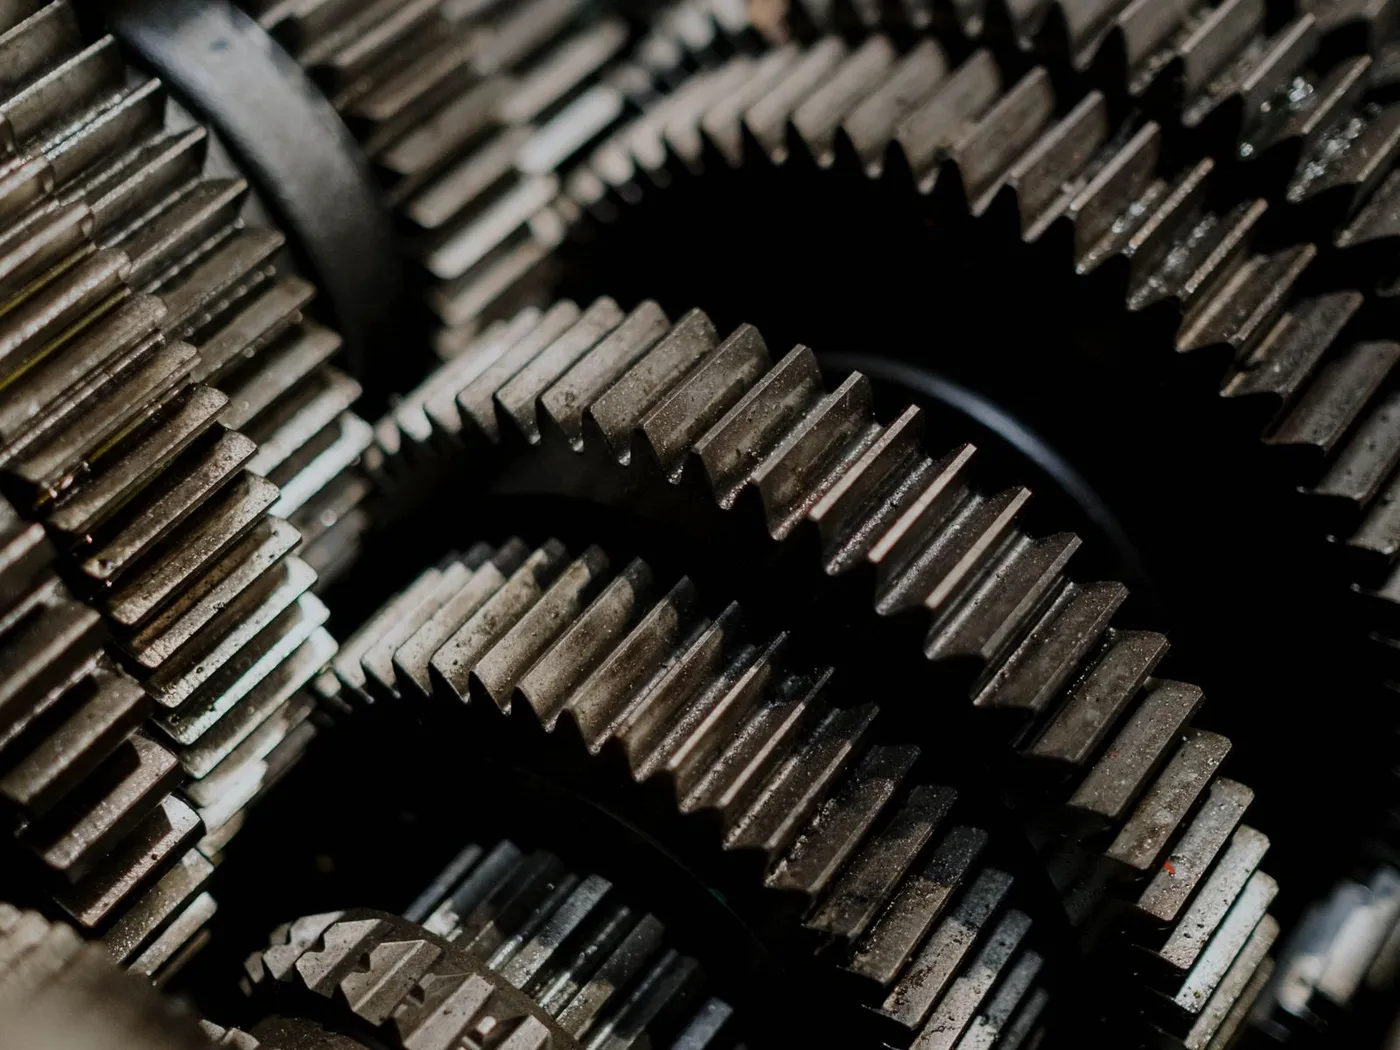
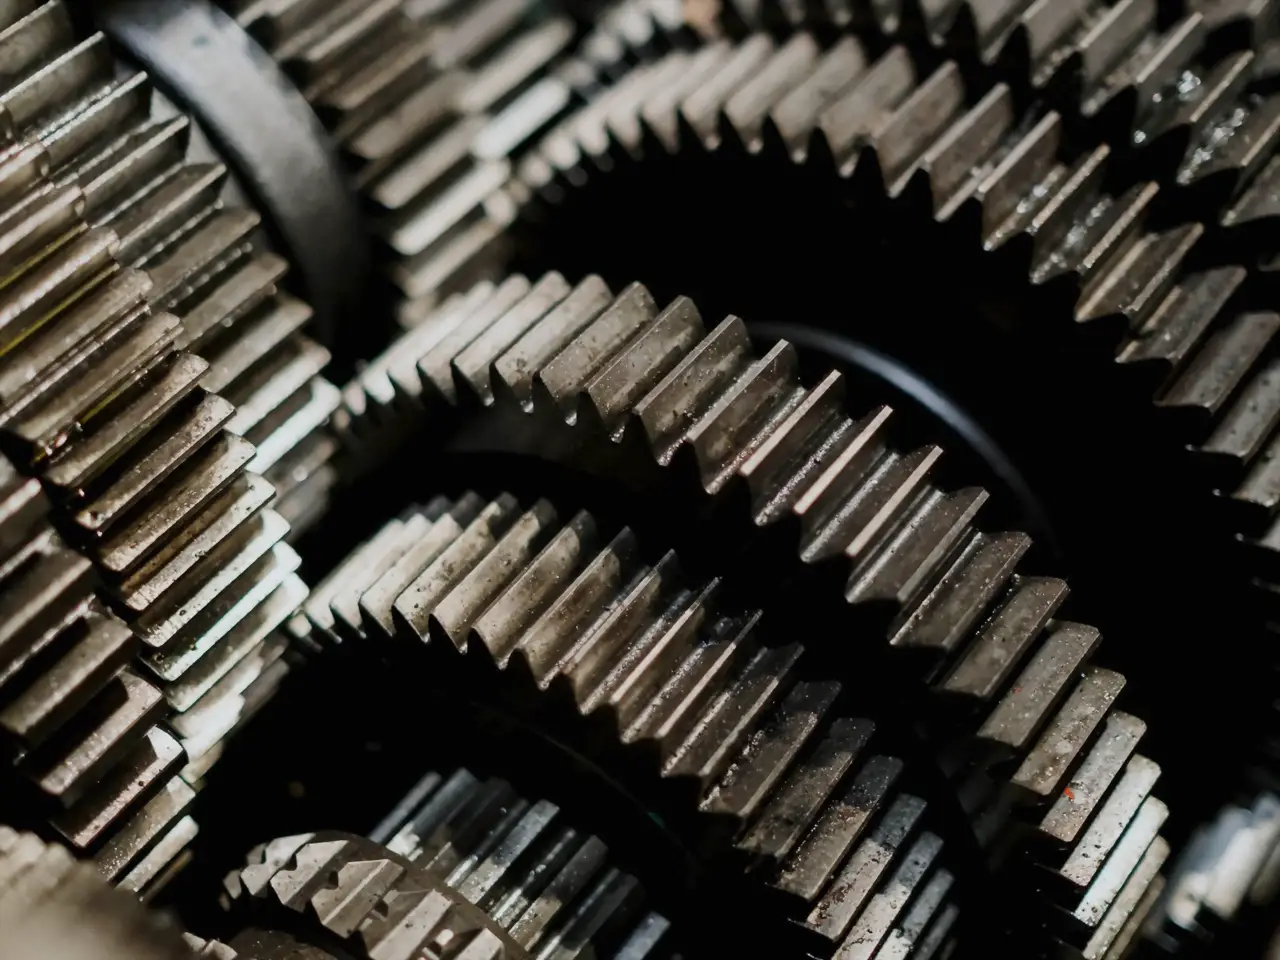
feat: rotacao de fotos no hero e painel esquerdo opaco
- useSlideshow: alterna 4 fotos por crossfade, com indicadores clicaveis.
  Respeita prefers-reduced-motion (nao gira), pausa com a aba oculta e so
  monta as fotos 2..n depois de 1,5s para nao disputar banda com a primeira,
  que e o LCP da pagina
- painel esquerdo agora e solido, recortado no complemento exato da diagonal.
  Antes era um degrade escuro por cima da foto, que vazava e criava uma faixa
  suja na transicao
- scrim no topo protegendo o contraste dos links da navbar, que passaram a
  cair sobre a foto em brilho cheio
- docs/imagens.md com o pipeline de processamento das fotos

As 4 fotos de origem tinham media de luminancia entre 18 e 48, e como o
filtro do duotone e unico, metade da rotacao aparecia quase preta. Agora cada
foto recebe no build o gamma necessario para chegar na mesma media (~72), e o
brilho no CSS voltou ao neutro — nao da para compensar exposicao em CSS quando
cada imagem entra com uma. Peso total: 216 KB para as 4.

Uma foto de faiscas de esmerilhadeira foi descartada: era a mais dramatica do
lote, mas as faiscas caiam no canto superior esquerdo, exatamente a parte que
o recorte diagonal esconde atras da coluna de texto.

diff --git a/src/sections/HeroSection.vue b/src/sections/HeroSection.vue
@@ -6,8 +6,10 @@ import RevealOnScroll from '@/components/ui/RevealOnScroll.vue'
 import { highlights } from '@/data/highlights'
 import { site } from '@/data/site'
 import { useWhatsApp } from '@/composables/useWhatsApp'
+import { useSlideshow } from '@/composables/useSlideshow'
+import { heroSlides } from '@/data/heroSlides'
 
-import heroImage from '@/assets/imgs/hero-engrenagens.webp'
+const { current, allowed, goTo } = useSlideshow(heroSlides.length)
 
 const { buildUrl } = useWhatsApp()
 const whatsappUrl = buildUrl(
@@ -32,35 +34,59 @@ const keywords = ['Câmbio automático', 'Mecânica geral', 'Performance']
       class="photo-gold absolute inset-0 -z-10 lg:[clip-path:polygon(50%_0,100%_0,100%_100%,40%_100%)]"
       aria-hidden="true"
     >
+      <!--
+        As fotos ficam empilhadas e trocam por opacidade. Somente as liberadas
+        por `allowed` sao montadas: a primeira entra na hora (e o LCP), as
+        outras so depois, para nao disputar banda com ela.
+      -->
       <img
-        :src="heroImage"
+        v-for="(slide, i) in heroSlides.slice(0, allowed)"
+        :key="slide.src"
+        :src="slide.src"
         alt=""
-        class="h-full w-full object-cover"
-        width="1400"
-        height="1050"
-        fetchpriority="high"
+        class="absolute inset-0 h-full w-full object-cover transition-opacity duration-1000 ease-in-out"
+        :class="i === current ? 'opacity-100' : 'opacity-0'"
+        width="1280"
+        height="960"
+        :fetchpriority="i === 0 ? 'high' : 'low'"
+        :loading="i === 0 ? 'eager' : 'lazy'"
       />
     </div>
 
     <!--
-      Escurecimento do texto. No mobile cobre tudo; no desktop precisa terminar
-      ANTES da diagonal (que comeca em 40%), senao o preto opaco cobre o filete
-      dourado — os dois estao em -z-10 e quem vem depois no DOM pinta por cima.
+      Painel esquerdo OPACO, recortado no complemento exato da diagonal da foto.
+      Antes aqui havia um degrade escuro, que deixava a foto vazar por baixo e
+      criava uma faixa suja na transicao. Solido resolve: preto limpo a
+      esquerda, filete dourado, foto a direita.
+      So no desktop — no mobile a foto e full-bleed atras do texto.
     -->
     <div
-      class="absolute inset-0 -z-10 bg-ink-950/75 lg:bg-[linear-gradient(100deg,var(--color-ink-950)_0%,var(--color-ink-950)_26%,transparent_44%)]"
+      class="absolute inset-0 -z-10 hidden bg-ink-950 lg:block lg:[clip-path:polygon(0_0,50%_0,40%_100%,0_100%)]"
       aria-hidden="true"
     ></div>
 
-    <!-- Brilho dourado radial -->
+    <!-- Escurecimento do texto no mobile, onde a foto fica atras dele -->
+    <div class="absolute inset-0 -z-10 bg-ink-950/75 lg:hidden" aria-hidden="true"></div>
+
+    <!-- Brilho dourado radial, para o painel solido nao ficar chapado -->
     <div
-      class="pointer-events-none absolute inset-0 -z-10 bg-[radial-gradient(ellipse_60%_50%_at_20%_10%,rgba(212,175,55,0.14),transparent_70%)]"
+      class="pointer-events-none absolute inset-0 -z-10 bg-[radial-gradient(ellipse_55%_45%_at_18%_12%,rgba(212,175,55,0.10),transparent_70%)]"
+      aria-hidden="true"
+    ></div>
+
+    <!--
+      Escurecimento no topo, atras da navbar. Com o painel esquerdo opaco a
+      foto passou a aparecer em brilho cheio, e os links da navbar que caem
+      sobre ela perdiam contraste.
+    -->
+    <div
+      class="pointer-events-none absolute inset-x-0 top-0 -z-10 h-32 bg-[linear-gradient(to_bottom,var(--color-ink-950)_0%,transparent_100%)] opacity-85"
       aria-hidden="true"
     ></div>
 
     <!--
       Filete dourado sobre a diagonal. Fica por ULTIMO de proposito: e o unico
-      jeito de ele ficar visivel acima do scrim e do brilho.
+      jeito de ele ficar visivel acima dos demais planos.
     -->
     <div
       class="absolute inset-0 -z-10 hidden bg-gold-500 lg:block lg:[clip-path:polygon(50%_0,50.2%_0,40.2%_100%,40%_100%)]"
@@ -124,6 +150,27 @@ const keywords = ['Câmbio automático', 'Mecânica geral', 'Performance']
           </ul>
         </RevealOnScroll>
       </div>
+    </div>
+
+    <!--
+      Indicadores da rotacao. Somente no desktop: no mobile a foto fica atras
+      do texto e os pontos so competiriam com a leitura.
+    -->
+    <div
+      class="absolute right-8 bottom-36 z-10 hidden items-center gap-2.5 lg:flex"
+      role="group"
+      aria-label="Trocar foto de fundo"
+    >
+      <button
+        v-for="(slide, i) in heroSlides"
+        :key="slide.src"
+        type="button"
+        class="h-1.5 cursor-pointer rounded-full transition-all duration-300"
+        :class="i === current ? 'w-7 bg-gold-500' : 'w-1.5 bg-white/30 hover:bg-white/60'"
+        :aria-label="slide.label"
+        :aria-current="i === current"
+        @click="goTo(i)"
+      ></button>
     </div>
 
     <!-- Faixa de numeros, encostada na base do hero -->

diff --git a/src/composables/useSlideshow.ts b/src/composables/useSlideshow.ts
@@ -1,0 +1,68 @@
+import { onMounted, onUnmounted, ref } from 'vue'
+
+/**
+ * Avanca um indice em intervalo fixo, para fundos que alternam entre fotos.
+ *
+ * Tres cuidados que o setInterval cru nao tem:
+ *
+ * - `prefers-reduced-motion`: nao rotaciona. Conteudo que se move sozinho e
+ *   justamente o que essa preferencia pede para evitar.
+ * - aba oculta: pausa. Evita timer rodando em background sem ninguem olhando.
+ * - `deferred`: so libera o carregamento das fotos 2..n depois de um tempo,
+ *   para nao competir com a primeira imagem — que e o LCP da pagina.
+ */
+export function useSlideshow(total: number, intervalMs = 6000) {
+  const current = ref(0)
+  /** Quais slides ja podem ter o <img> carregado. */
+  const allowed = ref(1)
+
+  let timer: ReturnType<typeof setInterval> | null = null
+  let deferTimer: ReturnType<typeof setTimeout> | null = null
+
+  const reduced = () =>
+    typeof matchMedia !== 'undefined' && matchMedia('(prefers-reduced-motion: reduce)').matches
+
+  function start() {
+    if (timer || total < 2 || reduced()) return
+    timer = setInterval(() => {
+      current.value = (current.value + 1) % total
+    }, intervalMs)
+  }
+
+  function stop() {
+    if (timer) {
+      clearInterval(timer)
+      timer = null
+    }
+  }
+
+  function onVisibilityChange() {
+    if (document.hidden) stop()
+    else start()
+  }
+
+  onMounted(() => {
+    // Libera as fotos restantes depois do LCP e so entao comeca a girar.
+    deferTimer = setTimeout(() => {
+      allowed.value = total
+      start()
+    }, 1500)
+
+    document.addEventListener('visibilitychange', onVisibilityChange)
+  })
+
+  onUnmounted(() => {
+    stop()
+    if (deferTimer) clearTimeout(deferTimer)
+    document.removeEventListener('visibilitychange', onVisibilityChange)
+  })
+
+  function goTo(index: number) {
+    current.value = index
+    // Um clique manual reinicia a contagem, senao a troca seguinte vem torta.
+    stop()
+    start()
+  }
+
+  return { current, allowed, goTo }
+}

diff --git a/src/data/heroSlides.ts b/src/data/heroSlides.ts
@@ -1,0 +1,31 @@
+import engrenagens from '@/assets/imgs/hero-engrenagens.webp'
+import diagnostico from '@/assets/imgs/hero-diagnostico.webp'
+import freios from '@/assets/imgs/hero-freios.webp'
+import oficina from '@/assets/imgs/hero-oficina.webp'
+
+/**
+ * Fotos que se alternam no fundo do hero.
+ *
+ * Todas passam pelo duotone dourado (.photo-gold), entao nao precisam ter a
+ * mesma temperatura de cor na origem — e justamente o que permite misturar
+ * uma foto em neon com uma em preto e branco sem quebrar a paleta.
+ *
+ * Criterio para entrar aqui: ser escura, ter assunto reconhecivel num relance
+ * e manter o interesse na METADE DIREITA do quadro — a esquerda fica atras da
+ * coluna de texto depois do recorte diagonal no desktop. Uma foto de faiscas
+ * de esmerilhadeira foi descartada por exatamente isso: o unico ponto de
+ * interesse dela caia na parte coberta.
+ *
+ * As quatro sao normalizadas na mesma media de luminancia no passo de build
+ * (ver docs/imagens.md). Sem isso a rotacao pisca: a foto de origem mais
+ * escura tinha media 18 contra 48 da mais clara, e o filtro CSS e unico.
+ *
+ * Origem: Pexels (licenca livre para uso comercial, sem atribuicao exigida).
+ * Substituir por fotos reais da oficina assim que o cliente enviar.
+ */
+export const heroSlides = [
+  { src: engrenagens, label: 'Engrenagens de câmbio' },
+  { src: diagnostico, label: 'Diagnóstico sob o veículo' },
+  { src: freios, label: 'Sistema de freios' },
+  { src: oficina, label: 'Oficina' },
+]

diff --git a/src/styles/index.css b/src/styles/index.css
@@ -126,8 +126,13 @@
     isolation: isolate;
   }
 
+  /*
+    As fotos de origem sao normalizadas na mesma media de luminancia (ver o
+    passo de build em docs/imagens.md), entao aqui o brilho fica neutro: nao
+    da para compensar exposicao no CSS quando cada foto entra com uma.
+  */
   .photo-gold > img {
-    filter: grayscale(1) contrast(1.05) brightness(1.15);
+    filter: grayscale(1) contrast(1.05);
   }
 
   .photo-gold::before,

diff --git a/docs/imagens.md b/docs/imagens.md
@@ -1,0 +1,91 @@
+# Imagens
+
+## Por que as fotos passam por um passo de build
+
+O site tinge todas as fotos de dourado via CSS (`.photo-gold` em
+`src/styles/index.css`): a imagem vira escala de cinza e uma camada dourada em
+`mix-blend-mode: color` devolve matiz preservando a luminosidade. Isso permite
+misturar fotos de origens muito diferentes — uma em neon azul, outra em preto e
+branco — sem quebrar a paleta.
+
+O que esse filtro **não** consegue corrigir é exposição. Ele é único e se aplica
+igual a todas as fotos, então uma foto naturalmente escura continua escura e
+uma clara continua clara. Na primeira versão do hero as quatro fotos tinham
+média de luminância entre 18 e 48 (numa escala de 0 a 255), e o resultado era
+que metade da rotação aparecia quase preta, sem assunto reconhecível.
+
+A correção é normalizar a luminância **na origem**, para que o filtro CSS receba
+entradas equivalentes.
+
+## Como processar uma foto nova
+
+Requer ImageMagick (`magick`).
+
+```bash
+SRC=foto-original.jpg
+OUT=src/assets/imgs/hero-nome.webp
+
+mean=$(magick "$SRC" -colorspace gray -format "%[fx:mean]" info:)
+gamma=$(awk -v m="$mean" 'BEGIN{printf "%.4f", log(m)/log(72/255)}')
+
+magick "$SRC" \
+  -gravity center -crop 4:3 +repage \
+  -gamma "$gamma" \
+  -sigmoidal-contrast 3,45% \
+  -resize 1280x \
+  -despeckle \
+  -quality 68 \
+  "$OUT"
+```
+
+O que cada passo faz:
+
+| Passo | Por que |
+|---|---|
+| `-gamma` calculado | leva a média de luminância da foto para **72**, o alvo comum a todas |
+| `-sigmoidal-contrast 3,45%` | devolve o contraste que o gamma achata, sem estourar as altas |
+| `-resize 1280x` | largura suficiente para o hero em telas grandes |
+| `-despeckle` | o gamma revela ruído nas sombras; sem isso o arquivo quase triplica |
+| `-quality 68` | é foto de fundo tingida, não precisa mais |
+
+Confira o resultado antes de comitar:
+
+```bash
+magick identify -format "%f %wx%h %b mean=%[fx:int(mean*255)]\n" src/assets/imgs/hero-*.webp
+```
+
+A média final deve ficar entre **55 e 75**. Fora dessa faixa a foto vai piscar
+mais clara ou mais escura que as outras durante a rotação.
+
+## Escolhendo a foto
+
+No desktop o hero recorta a foto em diagonal e mostra só a **metade direita** —
+a esquerda fica atrás da coluna de texto. Então o ponto de interesse tem que
+estar no centro ou à direita do quadro.
+
+Uma foto de faíscas de esmerilhadeira foi descartada por isso: era a mais
+dramática do lote, mas as faíscas ficavam no canto superior esquerdo, ou seja,
+na parte coberta.
+
+Outros critérios: escura na origem (sobra margem para o gamma trabalhar),
+assunto reconhecível num relance, e sem placa de veículo legível nem logo de
+marca concorrente em destaque.
+
+## Origem das fotos atuais
+
+Todas do [Pexels](https://www.pexels.com), licença livre para uso comercial e
+sem exigência de atribuição.
+
+| Arquivo | Pexels ID | Assunto |
+|---|---|---|
+| `hero-engrenagens.webp` | 7568427 | engrenagens de câmbio em macro |
+| `hero-diagnostico.webp` | 7019602 | diagnóstico sob o veículo |
+| `hero-freios.webp` | 12376594 | sistema de freios |
+| `hero-oficina.webp` | 4488639 | bancada da oficina |
+| `cambio-cutaway.webp` | 28721763 | corte de câmbio automático |
+| `mecanica-geral.webp` | 7568413 | mecânica geral |
+
+**São provisórias.** Assim que a Erica enviar as fotos da oficina, processe-as
+com o comando acima e troque os imports em `src/data/heroSlides.ts` — nenhum
+componente precisa mudar. Foto real da oficina converte melhor que banco de
+imagem e ajuda no perfil do Google Business.
